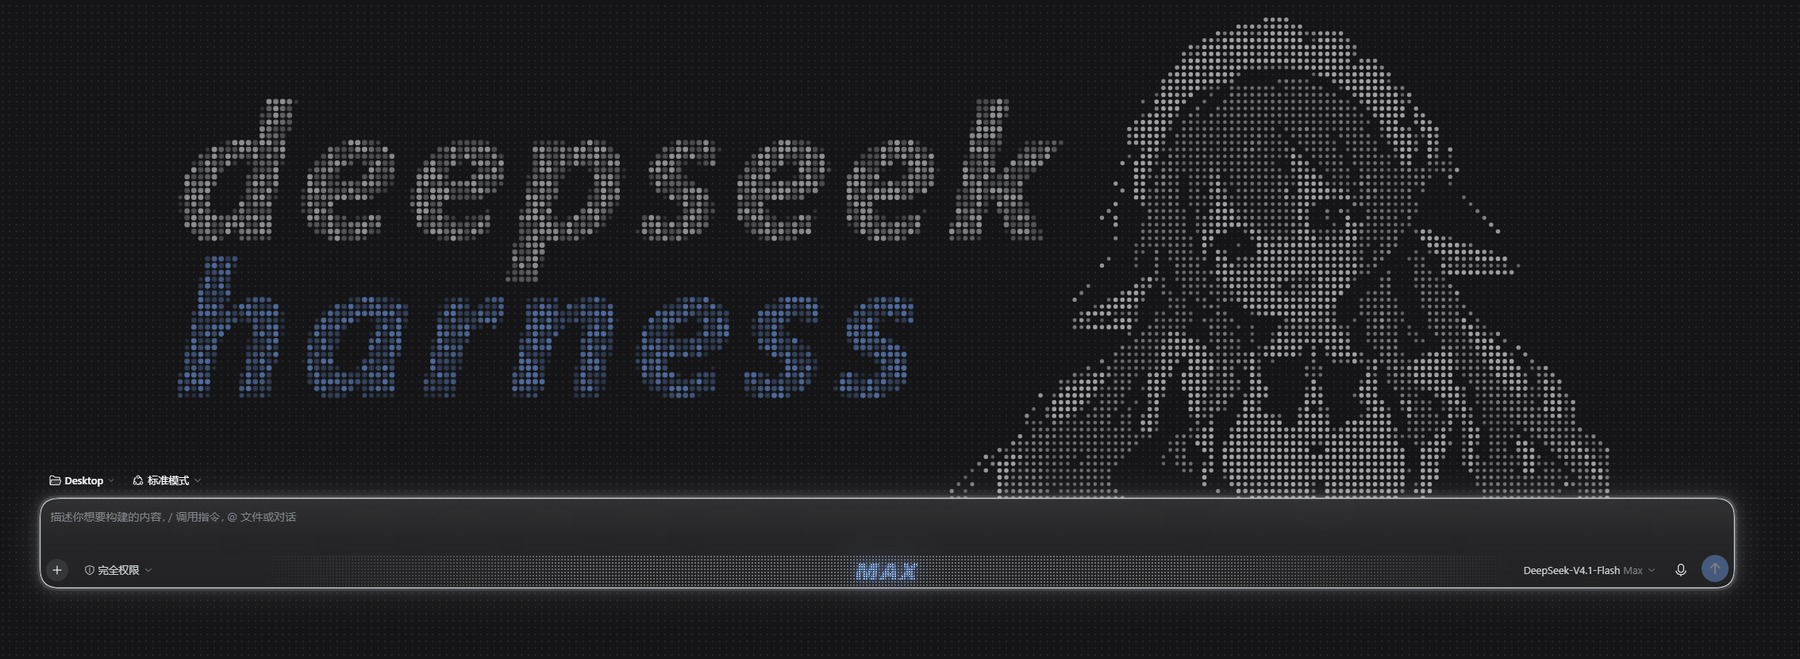
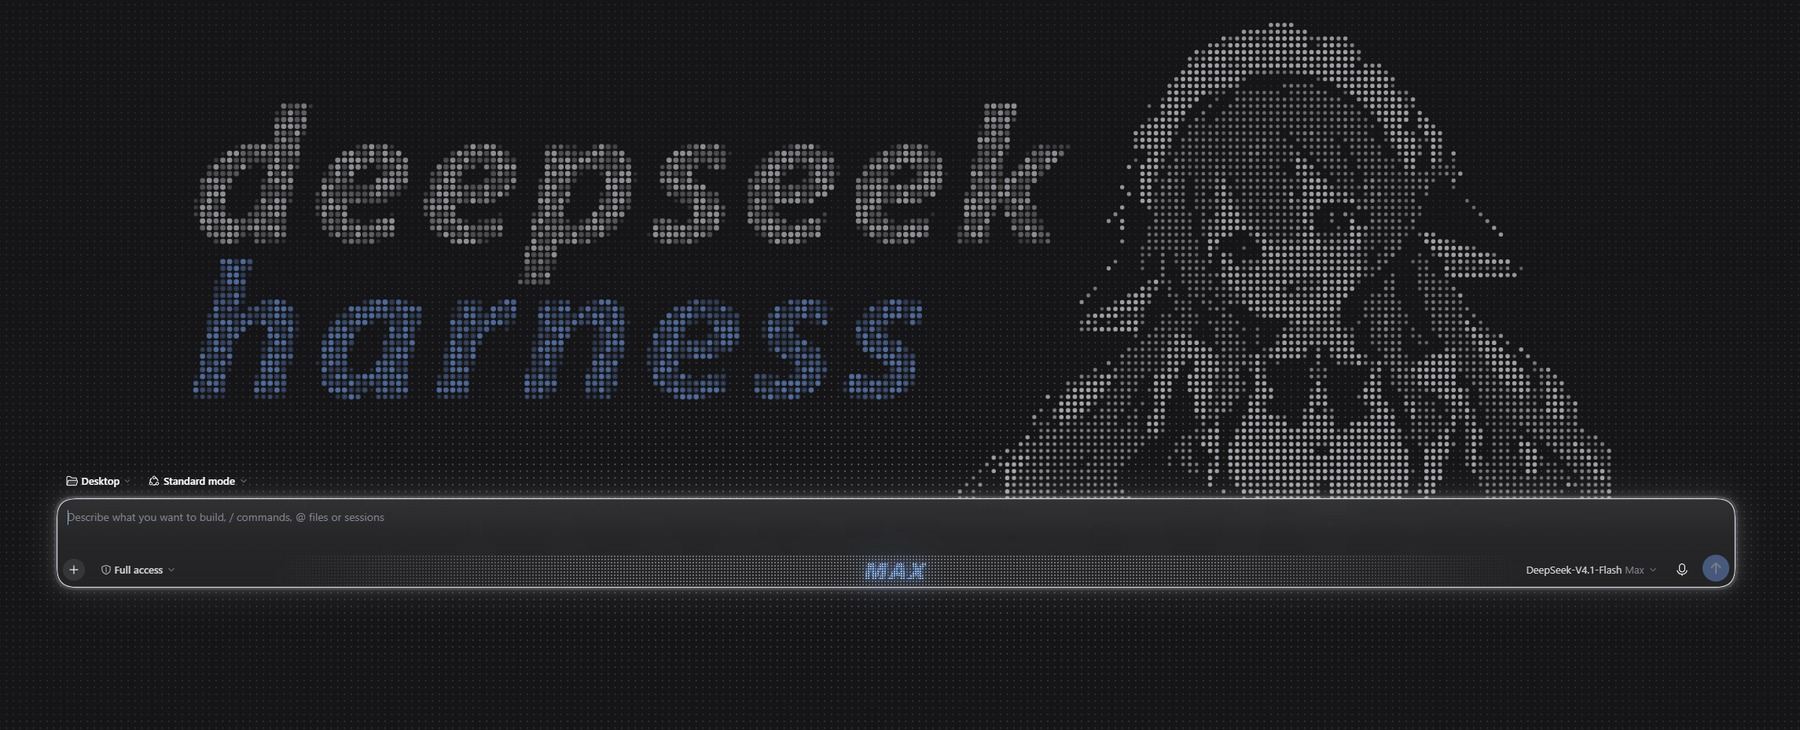
docs(1.3.3): English storefront preview

Changed region(s): [[0.0, 0.0303, 0.9644, 0.9105], [0.0933, 0.1214, 0.5911, 0.607]]

diff --git a/client.js b/client.js
@@ -2742,7 +2742,7 @@ body:not([data-ds-dark-theme]) [class*="_sessionRow"][class*="_selected"] {
         ]),
         h('div', { key: 'footer', className: 'dc-set-footer' }, [
           h('button', { key: 'reset', type: 'button', className: 'dc-set-reset', disabled, onClick: reset }, copy.reset),
-          h('span', { key: 'note', className: 'dc-set-note' }, 'DeepClear UI · 1.3.2'),
+          h('span', { key: 'note', className: 'dc-set-note' }, 'DeepClear UI · 1.3.3'),
         ]),
       ])
     }

diff --git a/CHANGELOG.md b/CHANGELOG.md
@@ -1,5 +1,9 @@
 # Changelog
 
+## 1.3.3
+
+- The storefront preview is the English UI screenshot.
+
 ## 1.3.2
 
 - New storefront preview: the README and the marketplace detail page show the current
